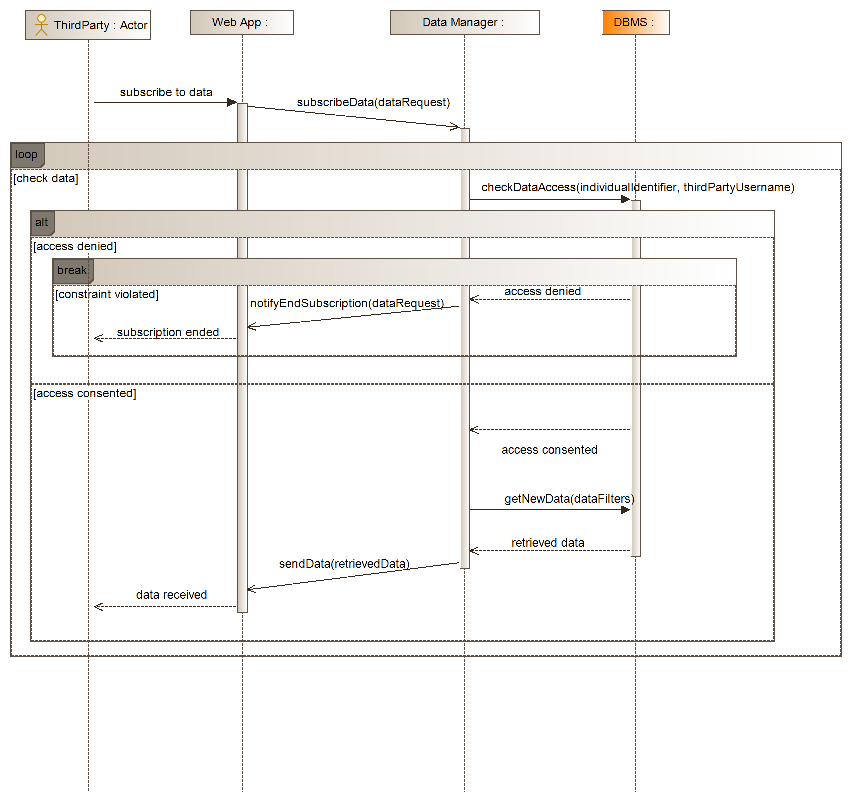
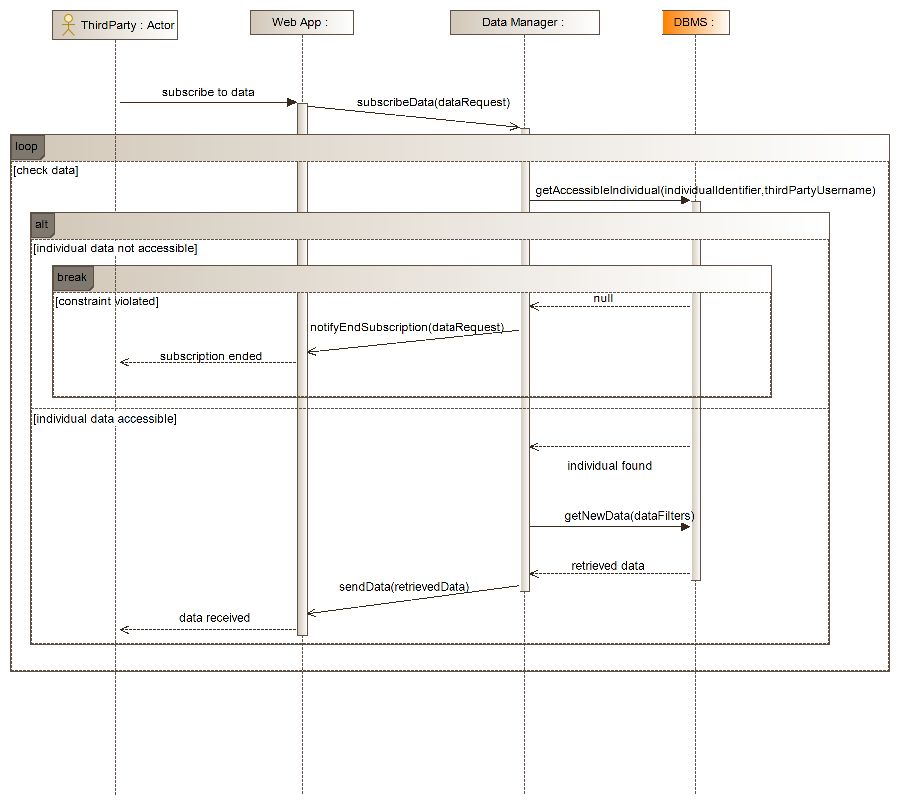
some tweaks regarding the individual data subscription

diff --git a/DD/ArchDesign.tex b/DD/ArchDesign.tex
@@ -149,13 +149,14 @@ Following the diagram, each operation is defined through a brief description.
 \item \textbf{uploadData}: adds the given data to the database.
 \item \textbf{retrieveAccount}: checks if the given credentials are in the database.
 \item \textbf{createAccount}: adds a new user account to the database using the given credentials.
-\item \textbf{checkDuplicate}: checks if the given username or tax code are already inserted in the database.
+\item \textbf{getDuplicate}: retrieves a tuple matching the given username or tax code.
 \item \textbf{updateAccess}: updates the list of all third parties that can have access to the individual data.
-\item \textbf{checkAccess}: checks if the given third party, identified by his username, can have access to the given individual data. The individual can be identified either by the tax code or by the username.
+\item \textbf{getAccessibleIndividual}: finds the tuple containing the given third party username and individual identifier, from the table containing all the list of the third parties and the individuals of which they have data access.
 \item \textbf{getNewData}: collects all the new data related to a data request.
 \end{itemize}
 \end{itemize}
 Note that the operations associated to the external services are fictitious, the real names or input parameters may vary from the one listed above, but the expected functionalities must be the same, even if they are mapped on more than one real function.\\
+In particulare the DBMS operations are just queries to the DB.
 
 In this document the model of the application will not be provided: this makes the development phase more flexible.\\
 However, to better coordinate the interactions between the component, a general description of the input provided in each operation listed before is here presented:
@@ -270,7 +271,7 @@ If the costraints are respected the new data is sent to the web application, oth
 \includegraphics[width=\linewidth]{resources/uml/sequence/IndividualDataSubscription.png}
 \end{figure}
 The individual data subscription procedure is very similar to the group one.\\
-The only difference is that the regular check of the privacy costraint is done before retrieving the data, through the DBMS because it is the component that has the list of all the third parties that have access to the individual data.\\ 
+The only difference is that the regular check of the privacy costraint is done before retrieving the data, through the DBMS. Indeed, the DB containts he list of all the individuals whose data is accessible by each third party.\\ 
 
 
 \section{Selected architectural styles and patterns}
